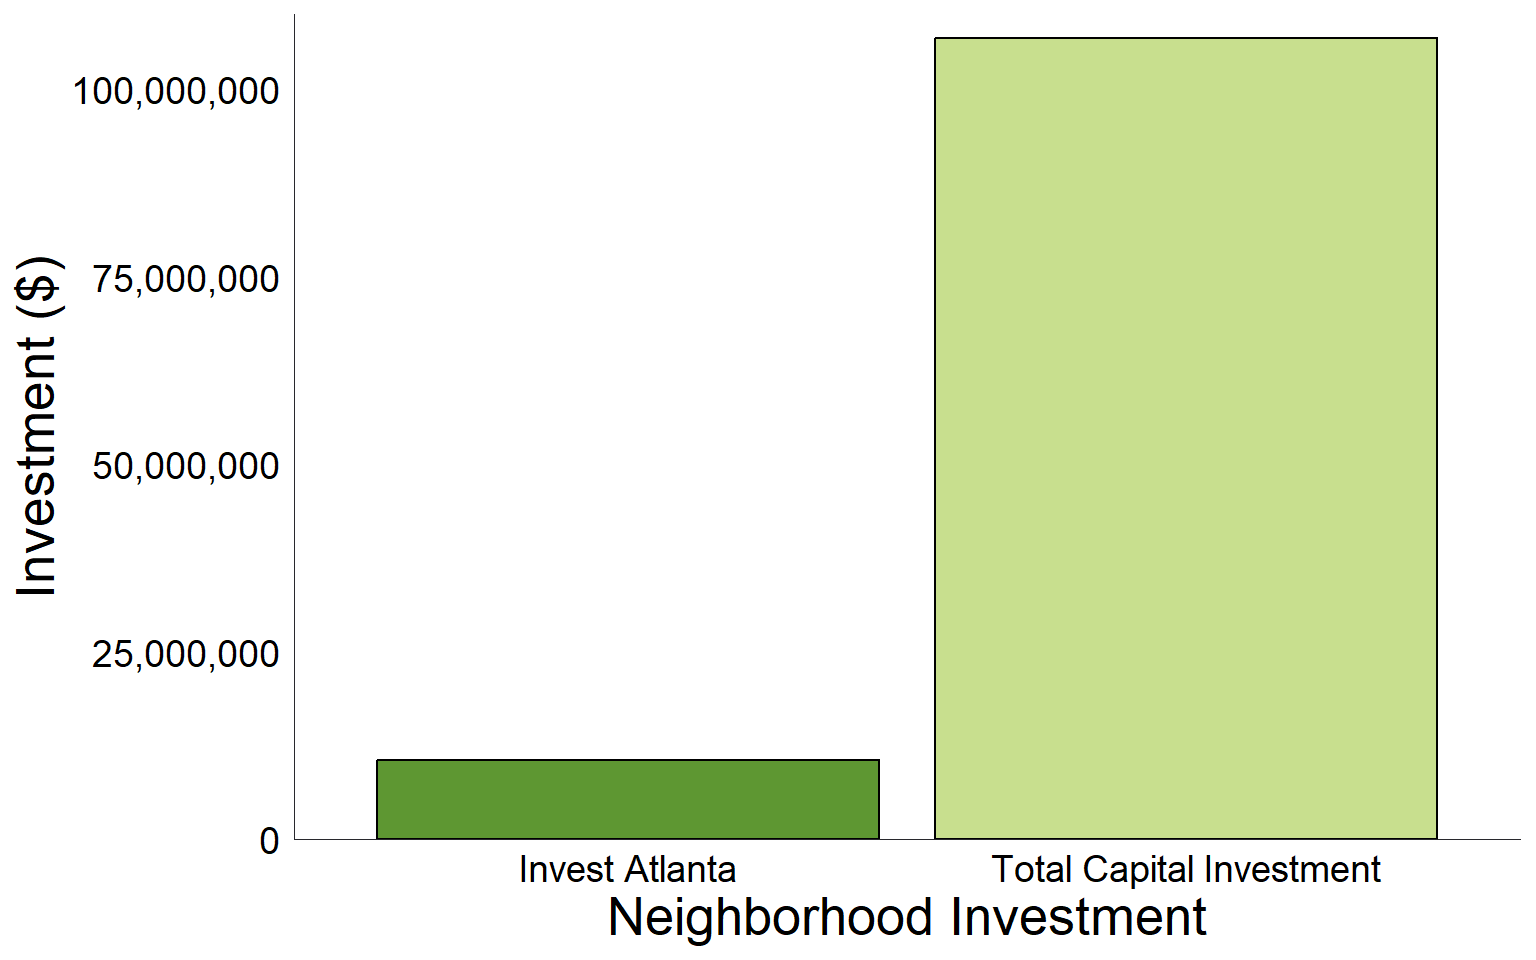
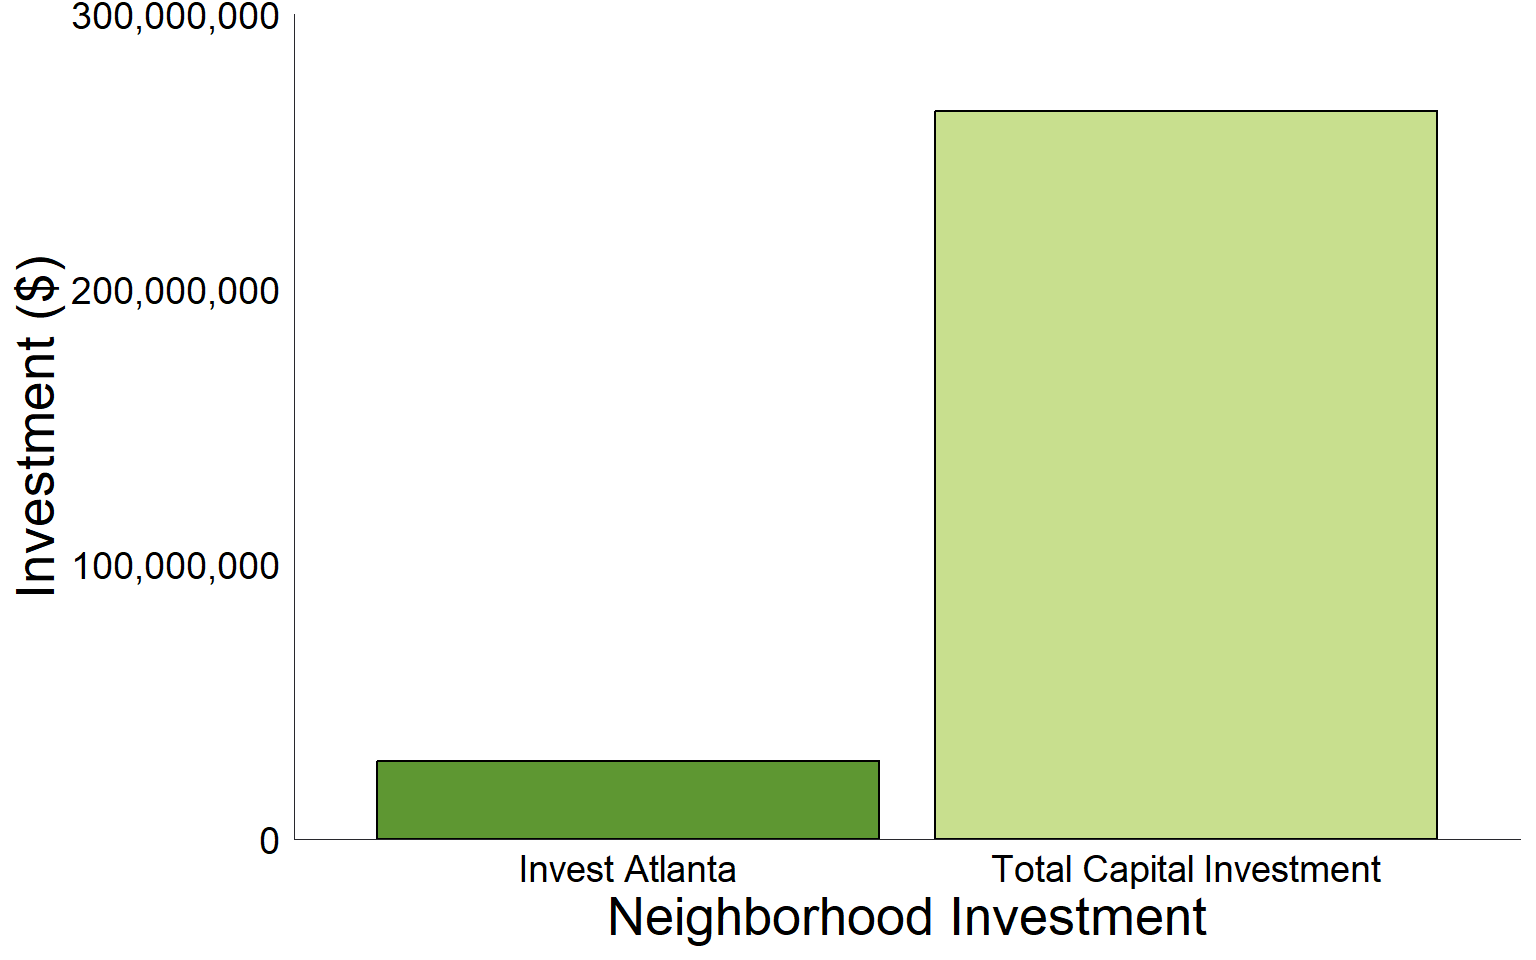
Built site for gh-pages

diff --git a/index.html b/index.html
@@ -89,7 +89,7 @@ grid-auto-rows: minmax(0, 1fr);">
 Total Capital Invested Across All Programs
 </p>
 <p class="value-box-value">
-$665.9 million
+$762.9 million
 </p>
 </div>
 </div>
@@ -121,7 +121,7 @@ $1.5 Billion
 Total Capital Invested in Disinvested Neighborhoods
 </p>
 <p class="value-box-value">
-6.5%
+5.7%
 </p>
 </div>
 </div>
@@ -547,7 +547,7 @@ grid-auto-rows: minmax(0, 1fr);">
 Total Capital Investment (Jobs &amp; Employment)
 </p>
 <p class="value-box-value">
-$225.7 Million
+$322.8 Million
 </p>
 </div>
 </div>
